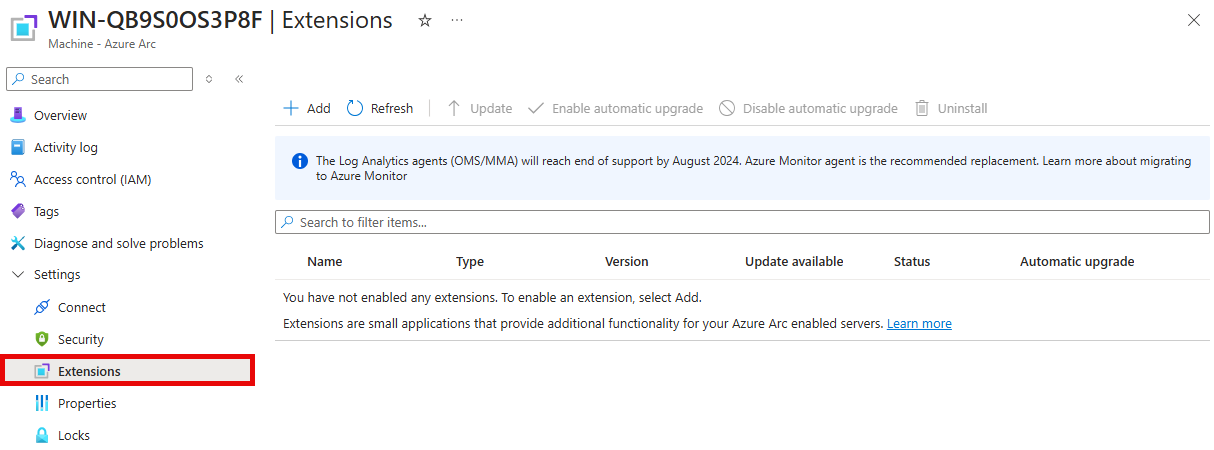
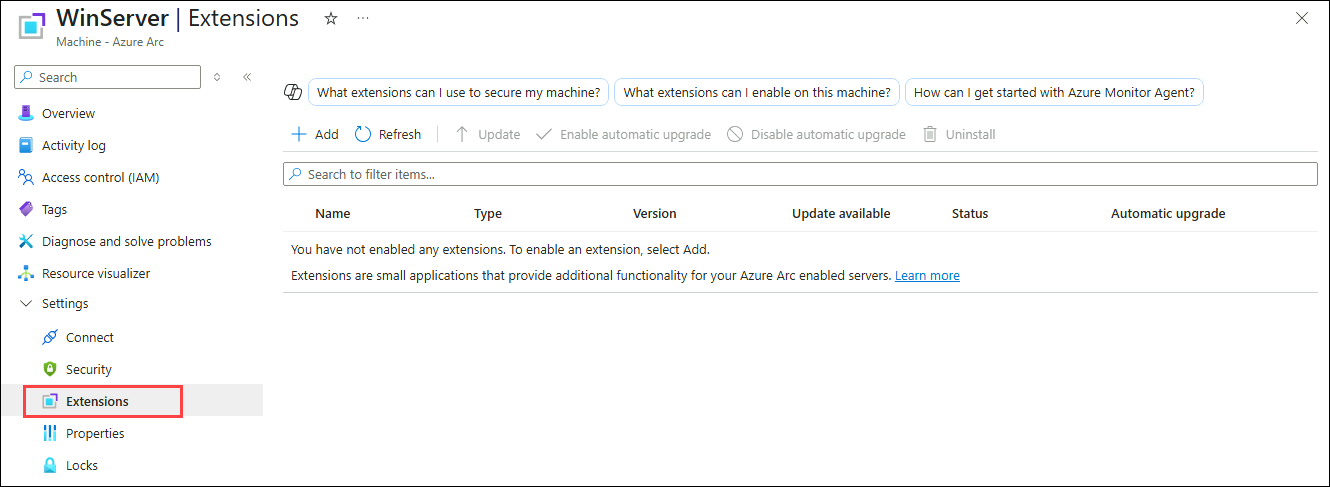
Added extensions step

diff --git a/docs/03_azure_arc_enable_vm/03_01.md b/docs/03_azure_arc_enable_vm/03_01.md
@@ -93,4 +93,8 @@ The key tasks are as follows:
 
     ![The WinServer page in Azure Arc is displayed in the Azure portal.](../../Hands-on%20lab/images/azure-arc-win-server.png)
 
+16. Select **Extensions** under **Settings**. This is where you can install Extensions on the Azure Arc-enabled virtual machine. For example, the **Custom Script Extension for Windows - Azure Arc** extension can be used to download PowerShell scripts and files from Azure storage and launch a PowerShell script on the machine.
+
+    ![The Extensions pane for the Machine - Azure Arc resource is shown with the Extensions link under Settings highlighted.](../../Hands-on%20lab/images/azure-portal-server-azure-arc-extensions.png)
+
 </details>
